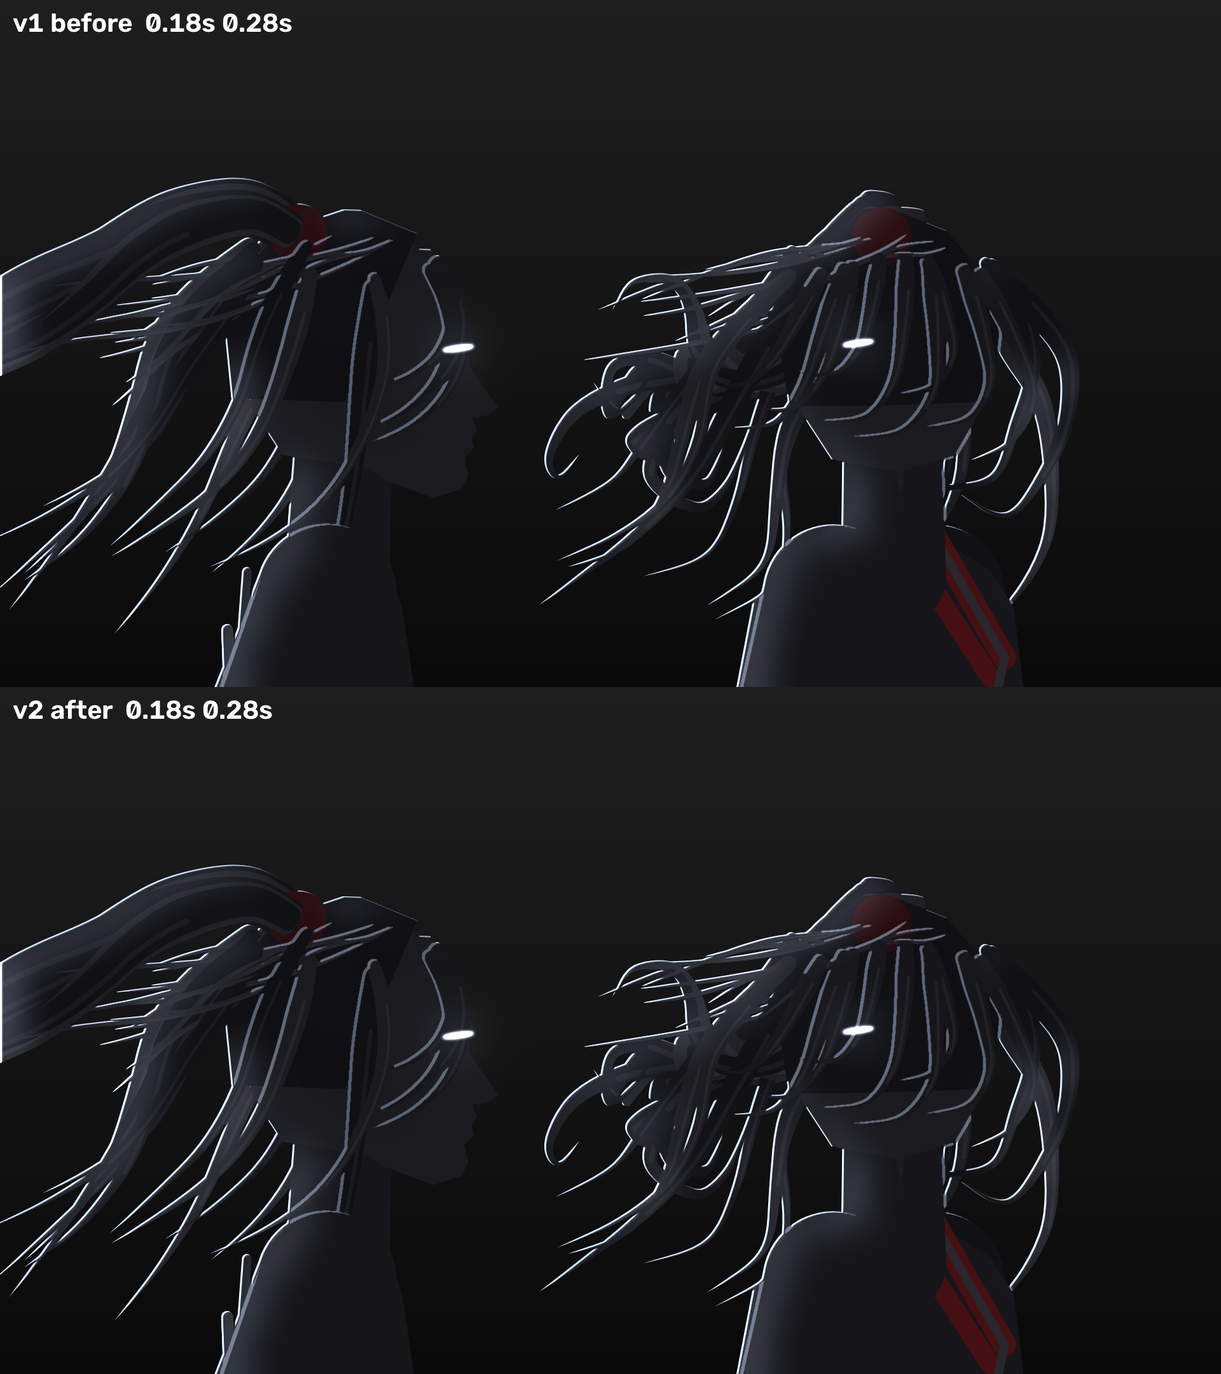
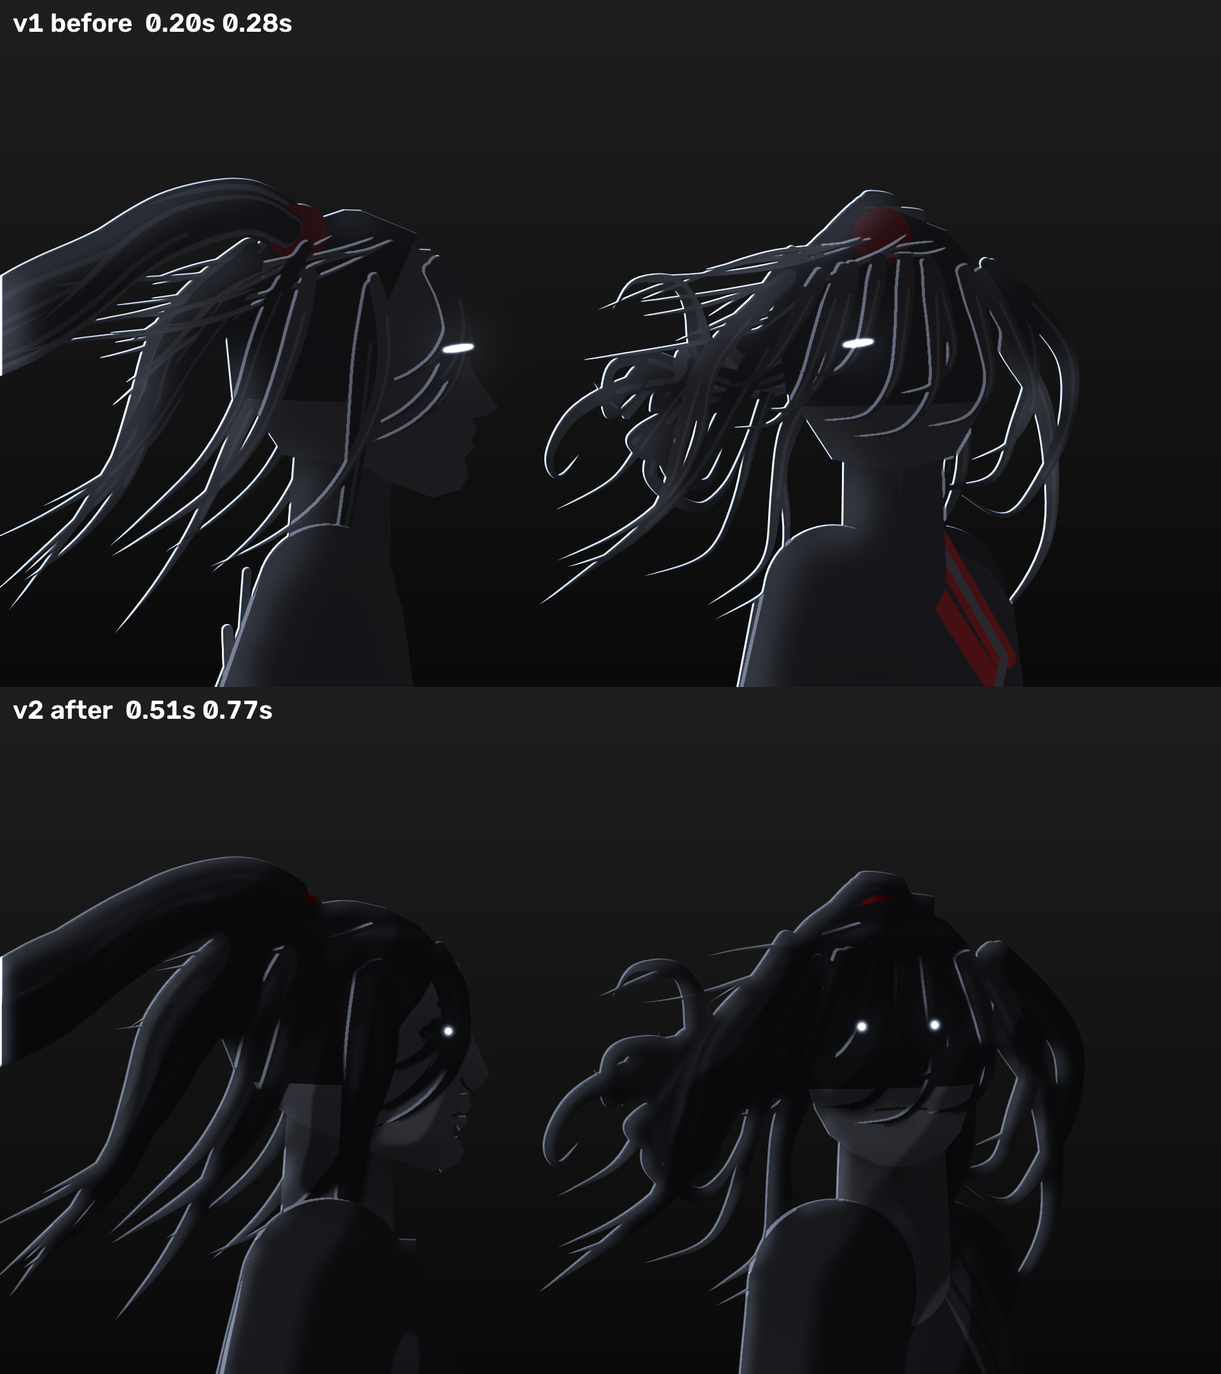
自动同步 11-09 03:27

diff --git a/lib/rig.py b/lib/rig.py
@@ -1910,6 +1910,9 @@ def _shade2(A, D, rd, R, ground=None, key_soft=0.12, occ_k=None, depth_thr=0.9):
     return key, amb, ao, nz, dist
 
 
+FILL = dict(amb=0.62, skin=0.42)   # v2.1 亮度：天光权重（v2 原 0.50）、肤色补光
+def set_fill(**kw): FILL.update(kw)
+
 def _comp2(fr, cv_, x0, y0, rim_color, rim_dir, rim, rimw, lift, alpha, ink, R, ground=None, key=1.0,
            tex_scale=1.0, inner_thr=3.5, spec_tone=None, return_A=False, paper=0.0, paper_col=(0.92, 0.88, 0.78),
            burn=None, met_cb=None):
@@ -1929,7 +1932,10 @@ def _comp2(fr, cv_, x0, y0, rim_color, rim_dir, rim, rimw, lift, alpha, ink, R, 
     tt = cv2.resize(tt, ((w_ // ts + 2) * ts, (h_ // ts + 2) * ts), interpolation=cv2.INTER_LINEAR)[:h_, :w_]
     inkc = INK if ink is None else np.asarray(ink, np.float32)
     rc = np.asarray(rim_color, np.float32)
-    shade = (0.50 * amb + 0.95 * key * kk) * ao * (0.93 + 0.14 * tt)
+    shade = (FILL['amb'] * amb + 0.95 * key * kk) * ao * (0.93 + 0.14 * tt)
+    # 肤色补光（v2.1）：皮肤（高 tone、非红非金属）在逆光下也保留可读的面部明暗，避免侧脸/回头变成暗块
+    skinm = _cel(tone, 0.50, 0.60) * (1 - red) * (1 - met)
+    shade = shade + skinm * FILL['skin'] * (0.55 + 0.45 * amb) * (0.6 + 0.4 * ao)
     lum = tone * shade * lift
     cool = np.array([0.255, 0.258, 0.285], np.float32)
     col = inkc[None, None] + lum[..., None] * cool
@@ -2536,7 +2542,7 @@ def _sw_draw2(self, fr, x, y, scale, flip=None, rim_color=(0.80, 0.86, 1.0), rim
                       hd0 - dd[k] - dbias))
     add_clumps(self.ponytail, 2.9 * hw, [hair_tone + (14 if k % 3 == 1 else 0) for k in range(self.ponytail.C)], 0.0, self.pt_w)
     add_clumps(self.locks, 2.4 * hw, [hair_tone + (10 if k % 3 == 0 else 0) for k in range(self.locks.C)], 0.0, self.lock_w)
-    add_clumps(self.bangs, 2.1 * hw, [hair_tone + 6] * self.bangs.C, 0.6)
+    add_clumps(self.bangs, 1.35 * hw, [hair_tone + 6] * self.bangs.C, 0.6)
     if detail > 0.5:                                      # 飞丝：少量、渐细、按尺度变宽（不再是 1px 乱线）
         q = P2(self.fly.P); dd = DP(self.fly.P).mean(1)
         for k in range(0, self.fly.C, 4):

diff --git a/crew/export_chat.py b/crew/export_chat.py
@@ -1,16 +1,18 @@
-"""把与用户的沟通记录导出为 crew/CONVERSATION.md（autosync.sh 每次同步前自动运行）。"""
+"""把与用户的沟通记录导出为 crew/CONVERSATION.md（autosync.sh 每次同步前自动运行）。
+第一段会话（前两任）已冻结在 crew/CONVERSATION_part1.md；之后的会话从各 journal 目录读取并追加。"""
 import json, glob, os
-J = '/workspace/.hark/journal/48161188-c1a2-483c-a894-09e5e091db89'
+HERE = os.path.dirname(os.path.abspath(__file__))
+JS = ['/workspace/projects/056c9682-39b0-4dca-a3b4-ab19434e714b/.hark/journal']   # 2026-11-09 03:20 起的接手会话
 rows = []
-for f in sorted(glob.glob(J + '/*.jsonl')):
-    for l in open(f, encoding='utf-8'):
-        try: rows.append(json.loads(l))
-        except Exception: pass
-start = next((i for i, r in enumerate(rows) if r.get('role') == 'user' and '接手任务' in r.get('text', '')), 0)
-out = ['# 《谁定正邪》MV 沟通记录', '', '用户与 Hark（制片/总导演）的对话，自动从会话导出。最早一条用户消息内含与上一任 agent 的对话记录。', '']
-for r in rows[start:]:
+for J in JS:
+    for f in sorted(glob.glob(J + '/*.jsonl')):
+        for l in open(f, encoding='utf-8'):
+            try: rows.append(json.loads(l))
+            except Exception: pass
+out = [open(os.path.join(HERE, 'CONVERSATION_part1.md'), encoding='utf-8').read().rstrip(), '', '---', '', '## 第三任接手（2026-11-09 03:20 起）', '']
+for r in rows:
+    if r.get('role') not in ('user', 'assistant'): continue
     who = '用户' if r.get('role') == 'user' else 'Hark'
     out += [f'### {who} · {r.get("time","")}', '', r.get('text', '').strip(), '']
-os.makedirs(os.path.dirname(os.path.abspath(__file__)), exist_ok=True)
-open(os.path.join(os.path.dirname(os.path.abspath(__file__)), 'CONVERSATION.md'), 'w', encoding='utf-8').write('\n'.join(out))
-print('exported', len(rows) - start)
+open(os.path.join(HERE, 'CONVERSATION.md'), 'w', encoding='utf-8').write('\n'.join(out))
+print('exported', len(rows))

diff --git a/crew/CONVERSATION_part1.md b/crew/CONVERSATION_part1.md
@@ -1,0 +1,260 @@
+# 《谁定正邪》MV 沟通记录
+
+用户与 Hark（制片/总导演）的对话，自动从会话导出。最早一条用户消息内含与上一任 agent 的对话记录。
+
+### 用户 · 2026-11-08T17:29:11Z
+
+接手任务，这是我跟上一个agent的对话记录，你注意，在你额度耗尽之前，一定要上传所有文件，包括做了部分的内容。
+
+有点水啊
+我也觉得水：镜头一拖 4 到 8 秒、几乎不动，刀客是静止剪影，三段副歌反复用同一组画面。我想先把副歌一（59–89 秒）重做成样片：按小节快切、镜头推拉甩震、刀客挥刀、歌词一笔一笔写出来。你最嫌的是节奏慢、画面简单，还是重复多？
+
+这就是你的全部能力了吗，我希望能像剧组一样开工，独立上下文，多个子代理。节奏慢、画面简单，重复多，我都嫌弃，而且画面不够精致，分镜不够有设计感，转场也没有，歌词文字排版简单，缺点太多了。
+反正不限你能力，能做到最好就行。一定是获奖级别的商业交付作品。
+收到，按剧组开工。第一阶段三个独立子代理已经并行开工：导演组画全片逐镜分镜、角色组做会动的刀客和布料特效、字幕转场组做笔画书写和转场库。之后各段摄制组并行拍，最后剪辑质检。你嫌的七点都写进了硬性标准。
+
+导演组交稿了：全片 138 镜，副歌平均 1.2–1.4 秒一切，切点几乎都压在鼓点上。三段副歌同词不同画：月夜「立」、雷暴「破」、破晓「定」，最后太阳从鬼屠的刀线上升起。新需求已转给角色组和字幕组。
+
+字幕转场组交件：逐笔书写、满屏字矩阵、字砸下炸开重组、字砖墙被一刀斩裂崩塌、宋体形变成行书、刀光刻字等 40 多种排版，加 17 种转场和运镜工具，单帧最慢 0.27 秒。等角色组的刀客到位就开拍。
+
+记得全部上传代码哈，做到一半的也要传
+已传：剧组总纲、138 镜分镜、字幕转场库、做到一半的角色库和测试图都推到仓库了（提交 ea0207f）。之后每个组交件就同步一次，音视频文件照旧不入库。
+
+剧组第一阶段完成大半，还没开拍。导演组和字幕转场组都已交件，角色组只做完鬼屠、太上皇和特写，军阵、道具、雨光特效还没做。角色库最新一版尚未推到 GitHub，接着做时会先同步。要我继续吗？
+
+谁定正邪 MV 剧组进度
+组
+状态
+产出
+剩余
+导演分镜
+完成
+138 镜，副歌 1.2–1.4 秒一切
+无
+字幕转场
+完成
+40 多种排版，17 种转场
+闪电刻字改回金白色
+角色美术
+做了一半
+鬼屠 19 个动作、刀光、特写、太上皇
+军阵、纸人、道具、雨光特效
+分段摄制
+未开始
+无
+先拍副歌一样片 59–89s
+剪辑质检
+未开始
+无
+成片渲染与交付
+接下来先补完角色库，再出副歌一样片给你看，你点头后再铺开到全片。
+
+### Hark · 2026-11-08T17:30:59Z
+
+接手了，从仓库 ea0207f 续做（前任没推送的那版角色库已经找不回，按仓库版本接着补）。现在两个组并行：角色组补军阵、纸人、道具和雨光特效，副歌一摄制组开拍 59–89 秒样片。两组都要求至少每 20 分钟推一次，半成品也推。
+
+### 用户 · 2026-11-08T17:31:34Z
+
+歌词和歌曲文件是不是没入库？
+
+### Hark · 2026-11-08T17:31:41Z
+
+歌词入库了，歌曲没进这个库。MV 代码库 guitu-s3-mv 是公开的，里面有歌词和逐字对齐数据，但 mp3 被刻意排除了。歌曲原件和歌词原文都在你的私有库 shui-ding-zheng-xie-op 里，我渲染时就是从那儿取的。要我把歌曲也放进 MV 库吗？那样会公开出去，除非先把库改成私有。
+
+### 用户 · 2026-11-08T17:31:56Z
+
+帮我入库
+[file: 谁定正邪.mp3]
+[file: 谁定正邪.txt]
+
+### 用户 · 2026-11-08T17:32:11Z
+
+不用私有，没事
+
+### Hark · 2026-11-08T17:32:11Z
+
+入库了：歌曲和歌词原文放在 MV 库的 audio 文件夹里，提交 6f54054。这个库是公开的，所以任何人都能下载这首歌。另外角色组也已经推了两次，闪电刻字已经改回金白色。
+
+### Hark · 2026-11-08T17:32:15Z
+
+好，就保持公开。副歌一样片出来我第一时间发你。
+
+### 用户 · 2026-11-08T17:33:18Z
+
+你能实时自动同步吗，你的产物文件，包括交接文档，readme等文件，我怕丢进度
+
+### Hark · 2026-11-08T17:33:51Z
+
+可以，已经开了：每 3 分钟自动把仓库里所有改动（包括半成品、交接文档、README）提交并推到 GitHub，只跳过超过 50MB 的视频。交接文档也刚更新到最新进度，提交 0497e84。
+
+### 用户 · 2026-11-08T17:44:36Z
+
+我问下，是用的什么技术栈
+
+### Hark · 2026-11-08T17:44:47Z
+
+纯 Python 程序化渲染：numpy 算画面和噪声（山、雾、雨、刀光），OpenCV 和 scipy 做变换、模糊、合成，PIL 用四款开源书法字体排歌词，角色是自写的 2D 骨骼动画。音频用 librosa 找鼓点，demucs 加 stable-ts 做逐字对齐，最后 ffmpeg 合成 H.264。没有任何 AI 生图。
+
+### 用户 · 2026-11-08T17:45:12Z
+
+没有其他技术能用了吗
+
+### Hark · 2026-11-08T17:45:30Z
+
+有。最值得加的是 Skia：矢量路径、抗锯齿、渐变更精致，刀客和笔触会明显更干净，速度也快。Blender 能做真 3D 布料和体积光，但这台机器没 GPU，全片渲染要十几个小时以上；GLSL 着色器同样吃 CPU。要我让角色组把绘制层换成 Skia吗？
+
+### 用户 · 2026-11-08T17:47:09Z
+
+可以，你为什么现在才决定呢，我的目的是做到最好。
+
+### Hark · 2026-11-08T17:47:49Z
+
+这是我的疏忽，接手时只顾着续上前任的管线，没先重新评估工具。Skia 已装好跑通，已交代角色组把刀客、刀光和各角色改成矢量绘制；副歌一组先把手上这版样片渲完，再换上 Skia 版重渲。
+
+### 用户 · 2026-11-08T17:53:07Z
+
+会是啥样子的啊，能给我看几个关键帧吗
+
+### Hark · 2026-11-08T17:54:09Z
+
+第一张是副歌一正在渲的 8 个镜头：热刀特写、月前红印「刀」、闪电裂墙、「天」字被一刀斩开。另两张是新做的军阵和雨光特效库。这还是换 Skia 前的版本，我自己看到的问题：砖墙太平淡，有一镜歌词顺序乱，结尾圈入镜头人太小，样片出来前会修。
+
+### Hark · 2026-11-08T17:54:09Z
+
+[file: sheet.jpg]
+
+### Hark · 2026-11-08T17:54:09Z
+
+[file: army_sheet.jpg]
+
+### Hark · 2026-11-08T17:54:09Z
+
+[file: fx2_sheet.jpg]
+
+### Hark · 2026-11-08T18:02:54Z
+
+副歌一样片出来了：31 秒 22 镜，每镜 0.9–1.9 秒压鼓点，每个切点都有转场，刀客助跑飞身斩、旋身划出光环。这版还没换 Skia，砖墙重复、手部特写偏粗、整体偏暗是下一轮要修的。你看完告诉我哪里不对，我并进下一轮改。
+
+### Hark · 2026-11-08T18:02:54Z
+
+[file: sample_chorus1.mp4]
+
+### 用户 · 2026-11-08T18:04:03Z
+
+挺好的，画面没问题了，但是运镜啊节奏啊卡点啊这些感觉还是不够。
+
+### Hark · 2026-11-08T18:04:40Z
+
+明白，这轮只抓运镜和卡点。先把底鼓、军鼓、镲片逐一标出来做卡点图，再给镜头上弹簧相机：每记底鼓推近震屏、加花处插 2–4 帧闪切、乐句末尾定格懋住，画面比声音早一帧。顺手修黑屏、偏暗和砖墙重复。
+
+### Hark · 2026-11-08T18:14:36Z
+
+角色库做完了，全部换成 Skia，已推到 6855b50：军阵、纸人和提线木偶、纸糊巨影烧穿、刀天平诏书印章字砖墙，都能动。对比图里头发和边缘光已不再锯齿。副歌一第二轮已切到这套新库，干脚影和黑箱之类几个道具留到拍对应段时补。
+
+### Hark · 2026-11-08T18:14:36Z
+
+[file: paper_sheet.jpg]
+
+### Hark · 2026-11-08T18:14:36Z
+
+[file: skia_cmp_swordsman.png]
+
+### Hark · 2026-11-08T18:34:17Z
+
+第二版出来了。把鼓轨拆出来标了 139 个击打，底鼓推近、军鼓反震、加花处插 13 处 2–3 帧闪切，平均 0.65 秒一个画面；两处鼓停用定格懋住再闪白爆出。第一版有几个字晚了快一秒，现在都压在字头上。这版节奏对了的话，我就按这套卡点和相机铺开全片？
+
+### Hark · 2026-11-08T18:34:17Z
+
+[file: sample_chorus1_v2.mp4]
+
+### 用户 · 2026-11-08T18:35:35Z
+
+跟随鼓点的画面震动稍微克制一下，有点多了，运镜再来点就行了
+
+### Hark · 2026-11-08T18:36:04Z
+
+收到。第三版去掉 hi-hat 碎抖，军鼓旋震减到三分之一，底鼓推近只留小节重拍和重音字，幅度减半；卡点和切点不动。每个镜头加一条主运镜，推轨、环绕、摇臂、跟拍、焦点转移，节奏改由运镜变速来带。
+
+### 用户 · 2026-11-08T18:42:47Z
+
+歌词文字排版还能优化吗
+
+### 用户 · 2026-11-08T18:43:02Z
+
+目前有点乱，文字风格也不统一
+
+### Hark · 2026-11-08T18:43:35Z
+
+能，已并进第三版一起改，定了统一规范：歌词只用一种书法字，每句至多一个超大主字；版位只留底部横排和右侧竖排，同屏只一句、不再散落；白字为主，每句最多一个朱红字；入场出场各一套。这套规范之后用到全片。
+
+### 用户 · 2026-11-08T18:44:08Z
+
+不要书法字，不好看我觉得，因为不好排版。
+
+### Hark · 2026-11-08T18:44:27Z
+
+好，书法字全部拿掉，歌词统一用思源宋体：主字用最粗的 Black，整句用半粗，小字用常规。入场也从逐笔书写换成更利落的刀光扫入和模糊到清晰，已交给第三版一起改。
+
+### 用户 · 2026-11-08T18:44:28Z
+
+或者你觉得好排版用书法字也可以的，反正要高审美哈
+
+### Hark · 2026-11-08T18:44:41Z
+
+我的判断：整句歌词还是用宋体，干净、好读、好排。书法只在「劈」「判」这种高潮当作图形大字用，最多两处，而且要和宋体版对比确实更好看才留。
+
+### Hark · 2026-11-08T18:58:35Z
+
+第三版好了。震动从 246 次减到 49 次，幅度只剩约十分之一；每镜一条主运镜，含两次希区柯克变焦、两次焦点转移。歌词全改思源宋体，同屏只一句；书法对比过，确实不如宋体 Black，没用。我看右侧竖排小了点，要加大吗？没问题就按这套铺开全片。
+
+### Hark · 2026-11-08T18:58:35Z
+
+[file: sample_chorus1_v3.mp4]
+
+### 用户 · 2026-11-08T19:00:54Z
+
+现在很棒了，人物模型能优化吗，对了，我们沟通的上下文也要同步到github哈
+
+### Hark · 2026-11-08T19:01:41Z
+
+沟通记录已同步到仓库 crew/CONVERSATION.md（含你贴的前任对话），之后每次自动同步都会更新。人物模型优化已开工：刀客比例和轮廓、衣摆飘带的物理摆动、成束的头发和光影，重点重做侧脸回头、握刀手和刀上的眼睛这几个特写，完了给你看前后对比。
+
+### Hark · 2026-11-08T19:13:09Z
+
+沟通记录已同步到仓库的 crew/CONVERSATION.md，每次自动推送都会更新。人物模型大概只做了四分之一：新的画法和光影层已写进代码，但我还没亲眼确认效果，也还没有前后对比图可以给你看。交接清单请看卡片。
+
+### Hark · 2026-11-08T19:13:09Z
+
+人物模型 v2 交接
+
+**已完成**
+- `lib/sk.py`：新增形状合并、布料网格渐变、形内绘制、粗细渐变的肢体等函数，原有接口不变。
+- `lib/rig.py` v2：
+  - 新增 `rig.set_quality('v1'|'v2')`，默认 v2。
+  - 光影：主光、天光、遮挡、脚下渐暗，另加 `_form` 体积明暗。
+- 刀客 v2（`_sw_draw2`）：
+  - 身体与服饰：腰线、长靴、交领、腰封、分层衣摆、护腕、缠手布、刀鞘金具。
+  - 挥刀拖影。
+  - 3D 头型与五官，头发成束。
+- 速度：每帧 0.17–0.26s，上限 0.6s。
+- 测试工具都在 `lib/rig_test/`：
+  - `rig_v1_baseline.py`、`crowd_v1_baseline.py`、`paper_v1_baseline.py`：改前的快照。
+  - `v2_cmp.py`：生成前后对比图。
+  - `v2_shots.py`：镜内抽帧。
+
+**有待处理的问题**
+- 两个角色组子代理曾同时改 `lib/rig.py`，里面可能有两处 `_composite` 定义互相覆盖，接手时要先理顺。
+- v2 还没验证，画面可能偏暗，要调 `_comp2` 的亮度。验证前不要重渲副歌一；要稳妥就先用 `set_quality('v1')`。
+- 自动同步循环大约 03:18 结束，之后的改动要手动跑 `./autosync.sh`。
+
+**待做（按顺序）**
+1. 亲眼检查 v2 刀客，并出对比图。
+2. 侧脸与回头特写（S043）。目前脸只是一团，转头时会变成暗块。
+3. 布料和飘带随动作调参；把预备、出刀、随势、收势的关键帧做得更有力。
+4. 重画握刀手特写（S029、S044）。
+5. 把刀上倒映的眼睛（S038）改成写实风格。它在 `units/chorus1.py` 的 `eye_layer` 里。
+6. 太上皇、正面跪姿士兵（`crowd.py`）、纸人（`paper.py`）。
+7. 镜内验证：用 `C1_RIG=live` 抽 S029、S035、S043、S044、S045，拼成 `v2_in_shots.jpg`。然后更新 `RIG_API.md`。
+8. 在 `HANDOFF.md` 补上 v3 段落。
+9. 用户确认后，按 v3 的规范铺开全片。
+10. 三份超过 50MB 的母版不在仓库里。v3 母版已经作为附件发过了。

diff --git a/crew/CONVERSATION.md b/crew/CONVERSATION.md
@@ -258,3 +258,50 @@
 8. 在 `HANDOFF.md` 补上 v3 段落。
 9. 用户确认后，按 v3 的规范铺开全片。
 10. 三份超过 50MB 的母版不在仓库里。v3 母版已经作为附件发过了。
+
+---
+
+## 第三任接手（2026-11-09 03:20 起）
+
+### 用户 · 2026-11-08T19:20:43Z
+
+github仓库中有个项目，你接受过来接着做，
+
+沟通记录已同步到仓库 crew/CONVERSATION.md（含你贴的前任对话），之后每次自动同步都会更新。人物模型优化已开工：刀客比例和轮廓、衣摆飘带的物理摆动、成束的头发和光影，重点重做侧脸回头、握刀手和刀上的眼睛这几个特写，完了给你看前后对比。
+
+沟通记录已同步到仓库的 crew/CONVERSATION.md，每次自动推送都会更新。人物模型大概只做了四分之一：新的画法和光影层已写进代码，但我还没亲眼确认效果，也还没有前后对比图可以给你看。交接清单请看卡片。
+
+摘要
+人物模型 v2 交接
+已完成
+
+lib/sk.py：新增形状合并、布料网格渐变、形内绘制、粗细渐变的肢体等函数，原有接口不变。
+lib/rig.py v2：
+新增 rig.set_quality('v1'|'v2')，默认 v2。
+光影：主光、天光、遮挡、脚下渐暗，另加 _form 体积明暗。
+刀客 v2（_sw_draw2）：
+身体与服饰：腰线、长靴、交领、腰封、分层衣摆、护腕、缠手布、刀鞘金具。
+挥刀拖影。
+3D 头型与五官，头发成束。
+速度：每帧 0.17–0.26s，上限 0.6s。
+测试工具都在 lib/rig_test/：
+rig_v1_baseline.py、crowd_v1_baseline.py、paper_v1_baseline.py：改前的快照。
+v2_cmp.py：生成前后对比图。
+v2_shots.py：镜内抽帧。
+有待处理的问题
+
+两个角色组子代理曾同时改 lib/rig.py，里面可能有两处 _composite 定义互相覆盖，接手时要先理顺。
+v2 还没验证，画面可能偏暗，要调 _comp2 的亮度。验证前不要重渲副歌一；要稳妥就先用 set_quality('v1')。
+自动同步循环大约 03:18 结束，之后的改动要手动跑 ./autosync.sh。
+待做（按顺序）
+
+亲眼检查 v2 刀客，并出对比图。
+侧脸与回头特写（S043）。目前脸只是一团，转头时会变成暗块。
+布料和飘带随动作调参；把预备、出刀、随势、收势的关键帧做得更有力。
+重画握刀手特写（S029、S044）。
+把刀上倒映的眼睛（S038）改成写实风格。它在 units/chorus1.py 的 eye_layer 里。
+太上皇、正面跪姿士兵（crowd.py）、纸人（paper.py）。
+镜内验证：用 C1_RIG=live 抽 S029、S035、S043、S044、S045，拼成 v2_in_shots.jpg。然后更新 RIG_API.md。
+在 HANDOFF.md 补上 v3 段落。
+用户确认后，按 v3 的规范铺开全片。
+三份超过 50MB 的母版不在仓库里。v3 母版已经作为附件发过了。

diff --git a/HANDOFF.md b/HANDOFF.md
@@ -129,3 +129,10 @@ intro → army(五百重甲,寒光刀光) → pscales0(纸上天平滴血) → d
 - **全片字幕规范**写在 `crew/chorus1_v2_edit.md` 第 4 节，其他段落照此执行（lyric3.LyricLayer + Sentence 表即可复用）。
 - 产出：`out/sample_chorus1_v3.mp4`（CRF18，未入库）、`out/sample_chorus1_v3_web.mp4`（CRF24）、`out/chorus1_v3_contact.jpg`、`out/chorus1_v3_mainchar_compare.jpg`。
 - 回退：`C1_CAM=2` v2 相机，`C1_LYR=2` 关统一字幕层（但镜头内散字已删，需 git 取回 v2 的 chorus1.py）。
+
+## 11. 人物模型 v2 接手核验（2026-11-09 03:40 CST）
+- `_composite` 两处定义不是冲突：第二处是 v2 包装层（`_composite_v1 = _composite` 后重定义，v1/无 skia 时回落），保留。
+- 亲眼核验 `v2_cmp.py sw cu`：全身 v2 明显好于 v1（体积明暗、腰封/长靴/护腕、飘带有厚度）；CU 偏暗、正面回头脸被刘海压成黑块、眼神光穿透头发 → 待修。
+- v2.1 改动：`rig.FILL`（天光 0.50→0.62、肤色补光 0.42，可 `rig.set_fill()` 调）；正面刘海发束 2.1→1.35×hw。侧脸已能读出鼻/唇/眼。
+- 对比图：`lib/rig_test/v2_cmp_sw_cu.jpg`。
+- 下一步：S043 回头（眼神光加遮挡判定、刘海分缝露额、头发发束改尖细）→ 握刀手 → 刀上眼睛 → 其余角色。副歌一仍未用 v2 重渲。
